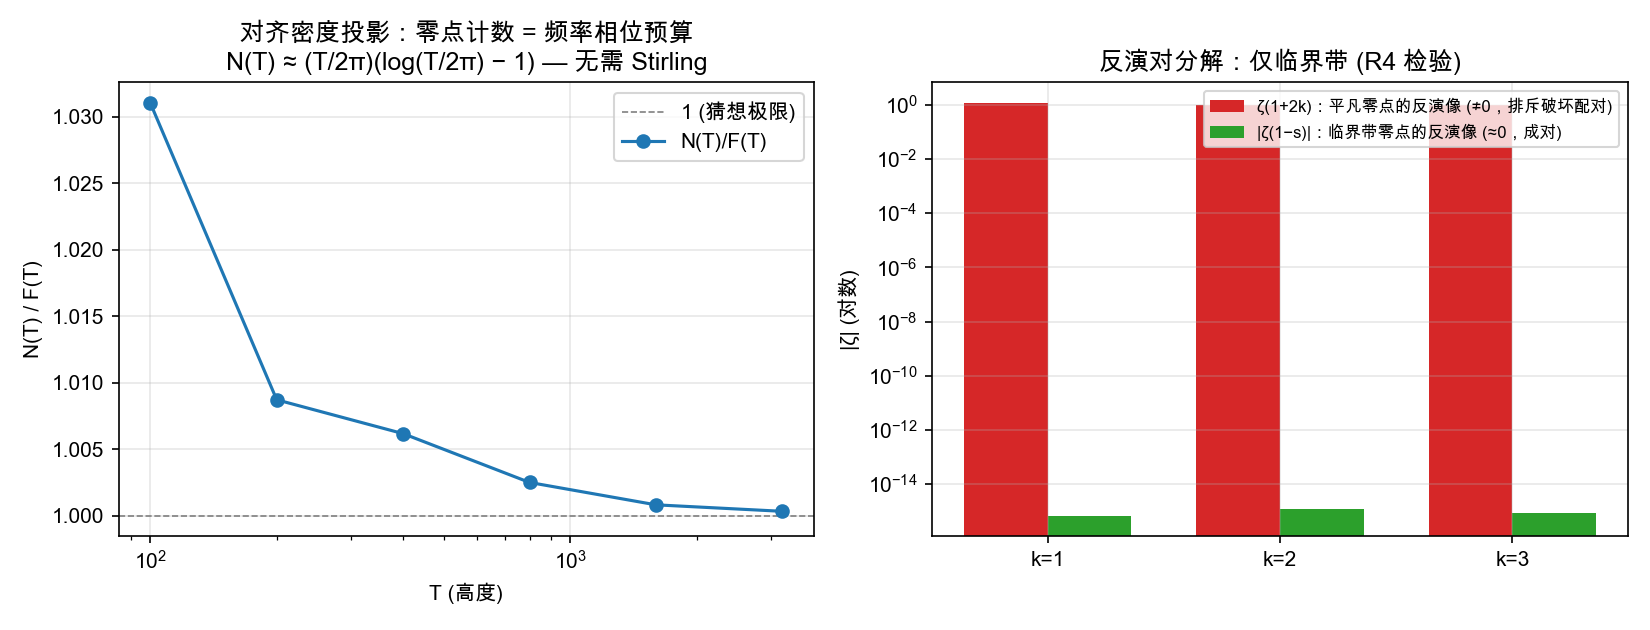
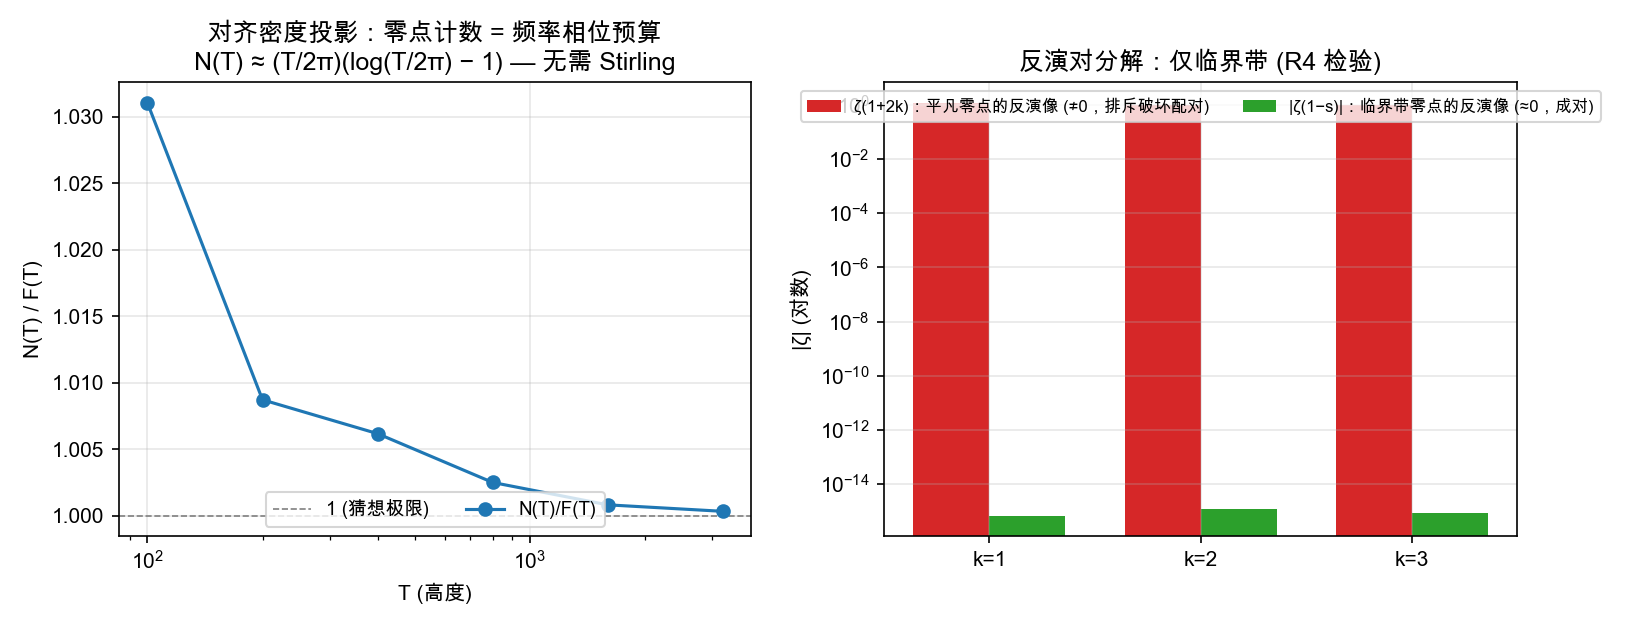
fix(paper): fig15 legend placement — left panel lower-center (2 cols), right panel upper-center (2 cols), no overlap with data

diff --git a/experiments/fig15_alignment_density.py b/experiments/fig15_alignment_density.py
@@ -85,7 +85,7 @@ ax1.set_xscale("log")
 ax1.set_xlabel(T[LANG]["xlabel_left"])
 ax1.set_ylabel(T[LANG]["ylabel_left"])
 ax1.set_title(T[LANG]["title_left"])
-ax1.legend()
+ax1.legend(loc="lower center", ncol=2, fontsize=9)
 ax1.grid(alpha=0.3)
 
 # 右: 反演对分解对照
@@ -101,7 +101,7 @@ ax2.set_xticklabels([f"k={k}" for k in kvals])
 ax2.set_yscale("log")
 ax2.set_ylabel(T[LANG]["ylabel_right"])
 ax2.set_title(T[LANG]["title_right"])
-ax2.legend(fontsize=8)
+ax2.legend(loc="upper center", ncol=2, fontsize=8)
 ax2.grid(alpha=0.3)
 
 plt.tight_layout()
